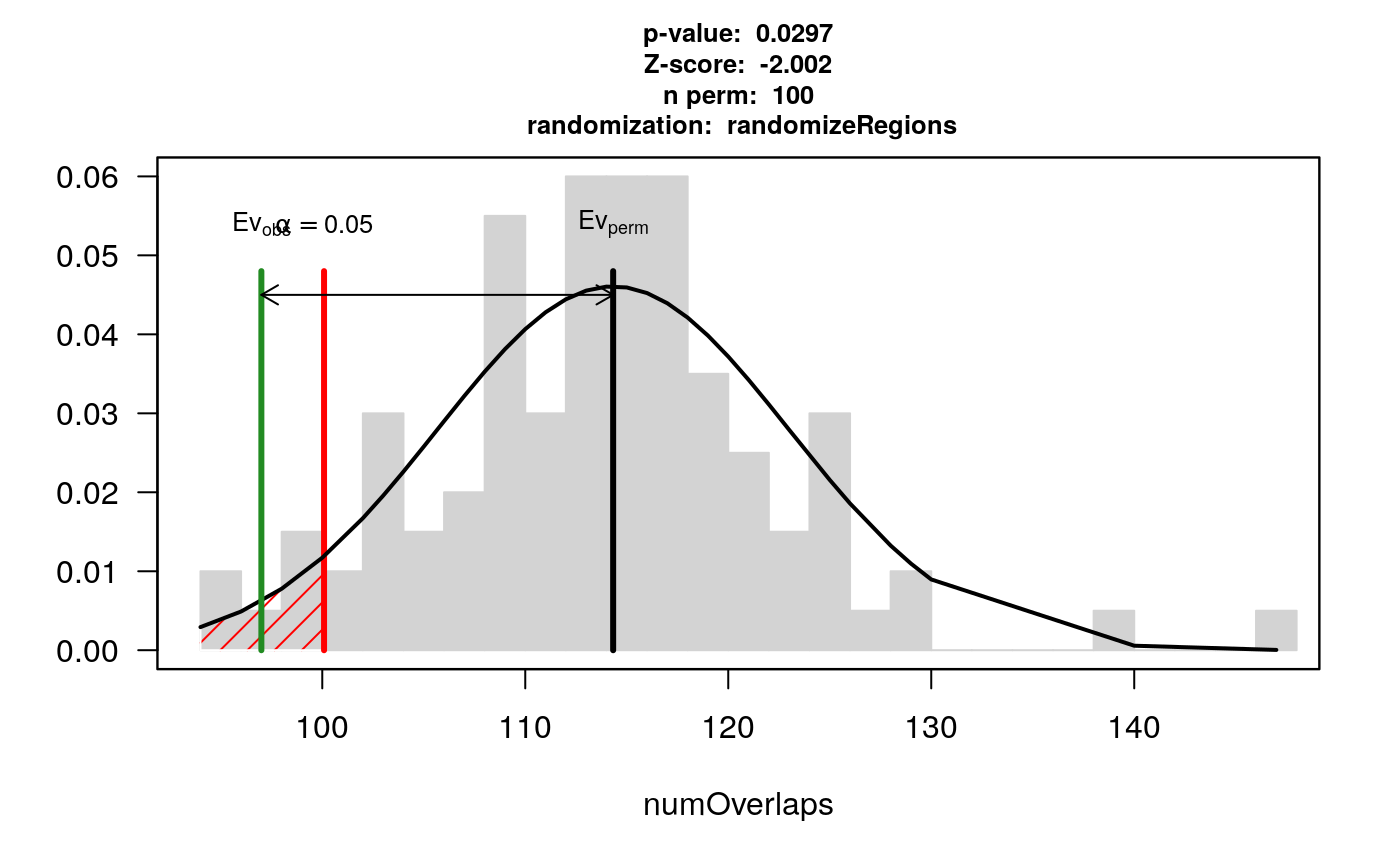
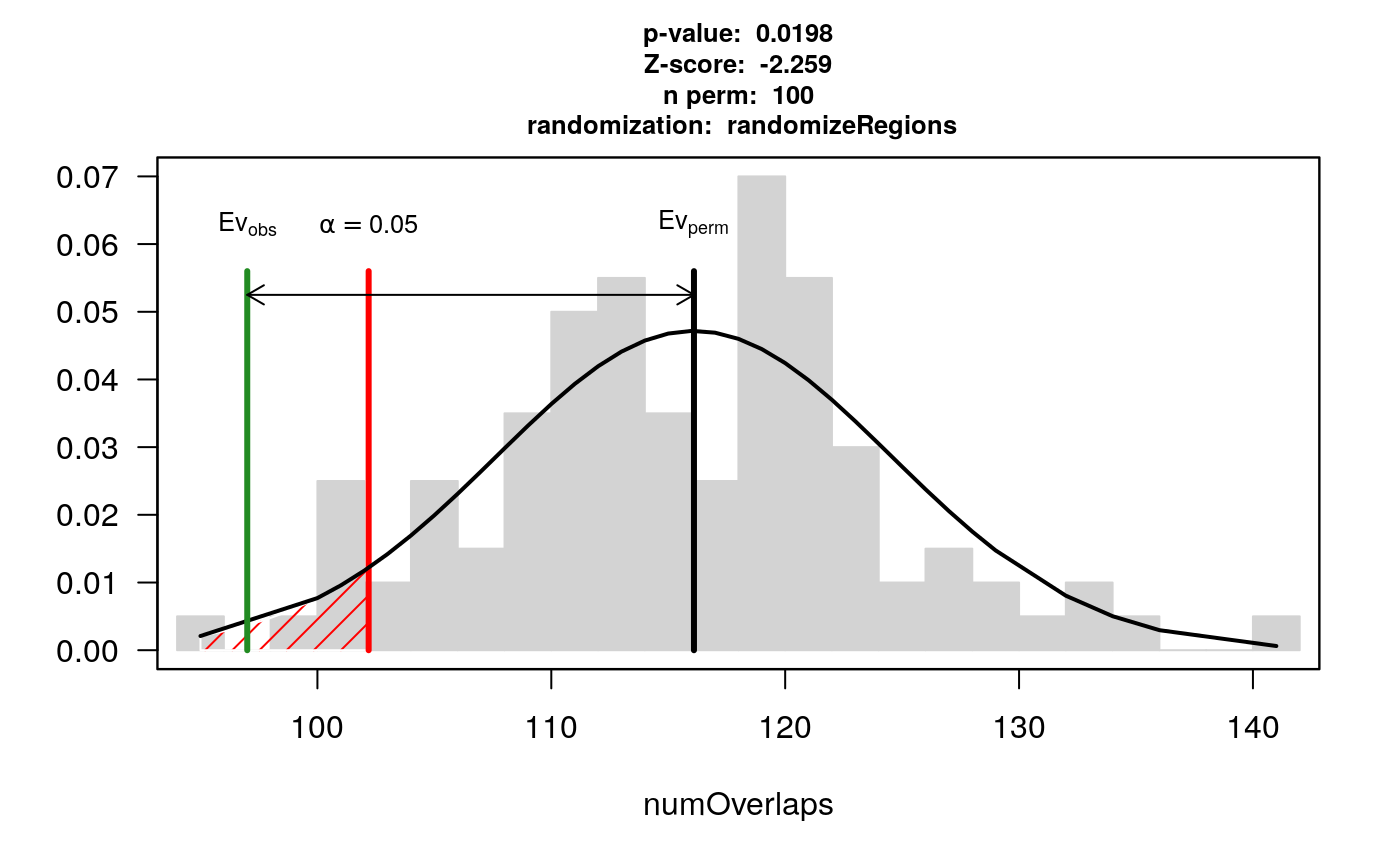
Deploying to gh-pages from  @ 527996aec57179fef9a1bed9976afaef2c1ede6e 🚀

diff --git a/articles/Geistlinger_CNVWorkshop.html b/articles/Geistlinger_CNVWorkshop.html
@@ -563,17 +563,17 @@ RaggedExperiment object schematic. Rows and columns represent genomic ranges and
 <pre><code>## DataFrame with 711 rows and 2 columns
 ##             weight       fcr
 ##          &lt;numeric&gt; &lt;numeric&gt;
-## NE001357   1078.38      7.38
-## NE001358   1103.36      7.35
-## NE001359   1110.40      7.44
-## NE001360   1065.99      7.38
-## NE001361    950.32      4.35
+## NE001357   1122.02      5.08
+## NE001358   1051.97      5.62
+## NE001359   1134.84      6.24
+## NE001360   1179.95      7.42
+## NE001361    938.79      8.06
 ## ...            ...       ...
-## NE003962   1119.74      7.30
-## NE003963   1063.77      9.00
-## NE003966   1070.38      5.59
-## NE003967   1191.68      8.98
-## NE003968    991.56      6.35</code></pre>
+## NE003962   1151.88      5.84
+## NE003963   1054.44      3.77
+## NE003966   1148.11      7.60
+## NE003967   1152.94      7.50
+## NE003968   1167.31      5.62</code></pre>
 </div>
 </div>
 <div id="summarizing-individual-cnv-calls-across-a-population" class="section level3">
@@ -660,7 +660,7 @@ RaggedExperiment object schematic. Rows and columns represent genomic ranges and
 <p>To obtain the location of protein-coding genes, we query available <em>Bos taurus</em> annotation from Ensembl</p>
 <div class="sourceCode" id="cb59"><html><body><pre class="r"><span class="fu"><a href="https://rdrr.io/r/base/library.html">library</a></span>(<span class="no">AnnotationHub</span>)
 <span class="no">ah</span> <span class="kw">&lt;-</span> <span class="kw pkg">AnnotationHub</span><span class="kw ns">::</span><span class="fu"><a href="https://rdrr.io/pkg/AnnotationHub/man/AnnotationHub-class.html">AnnotationHub</a></span>()</pre></body></html></div>
-<pre><code>## using temporary cache /tmp/Rtmp3o4EAZ/BiocFileCache</code></pre>
+<pre><code>## using temporary cache /tmp/Rtmpyq1QlS/BiocFileCache</code></pre>
 <pre><code>## snapshotDate(): 2020-07-20</code></pre>
 <div class="sourceCode" id="cb62"><html><body><pre class="r"><span class="no">ahDb</span> <span class="kw">&lt;-</span> <span class="kw pkg">AnnotationHub</span><span class="kw ns">::</span><span class="fu"><a href="https://rdrr.io/pkg/AnnotationHub/man/AnnotationHub-class.html">query</a></span>(<span class="no">ah</span>, <span class="kw">pattern</span> <span class="kw">=</span> <span class="fu"><a href="https://rdrr.io/r/base/c.html">c</a></span>(<span class="st">"Bos taurus"</span>, <span class="st">"EnsDb"</span>))
 <span class="no">ahDb</span></pre></body></html></div>
@@ -798,8 +798,8 @@ RaggedExperiment object schematic. Rows and columns represent genomic ranges and
     <span class="kw">genome</span><span class="kw">=</span><span class="st">"bosTau6"</span>, <span class="kw">mask</span><span class="kw">=</span><span class="fl">NA</span>, <span class="kw">per.chromosome</span><span class="kw">=</span><span class="fl">TRUE</span>, <span class="kw">count.once</span><span class="kw">=</span><span class="fl">TRUE</span>))
 <span class="no">res</span></pre></body></html></div>
 <pre><code>## $numOverlaps
-## P-value: 0.0297029702970297
-## Z-score: -2.0015
+## P-value: 0.0198019801980198
+## Z-score: -2.2587
 ## Number of iterations: 100
 ## Alternative: less
 ## Evaluation of the original region set: 97
@@ -810,8 +810,8 @@ RaggedExperiment object schematic. Rows and columns represent genomic ranges and
 ## [1] "permTestResultsList"</code></pre>
 <div class="sourceCode" id="cb77"><html><body><pre class="r"><span class="fu"><a href="https://rdrr.io/r/base/summary.html">summary</a></span>(<span class="no">res</span><span class="kw">[[</span><span class="fl">1</span>]]$<span class="no">permuted</span>)</pre></body></html></div>
 <pre><code>##    Min. 1st Qu.  Median    Mean 3rd Qu.    Max. 
-##    94.0   109.0   114.5   114.3   119.0   147.0</code></pre>
-<p>The resulting permutation <em>p</em>-value indicates a significant depletion. Out of the 303 CNV regions, 97 overlap with at least one gene. In contrast, when repeatedly drawing random regions matching the CNV regions in size and chromosomal distribution, the mean number of overlapping regions across permutations was 114.3 <span class="math inline">\(\pm\)</span> 8.7.</p>
+##    95.0   111.0   116.0   116.1   121.0   141.0</code></pre>
+<p>The resulting permutation <em>p</em>-value indicates a significant depletion. Out of the 303 CNV regions, 97 overlap with at least one gene. In contrast, when repeatedly drawing random regions matching the CNV regions in size and chromosomal distribution, the mean number of overlapping regions across permutations was 116.1 <span class="math inline">\(\pm\)</span> 8.5.</p>
 <p>This finding is consistent with our observations across the whole genome (<a href="https://doi.org/10.1371/journal.pone.0157711">da Silva et al., 2016</a>) and findings from the 1000 Genomes Poject (<a href="https://www.nature.com/articles/nature15394">Sudmant et al., 2015</a>).</p>
 <div class="sourceCode" id="cb79"><html><body><pre class="r"><span class="fu"><a href="https://rdrr.io/r/base/plot.html">plot</a></span>(<span class="no">res</span>)</pre></body></html></div>
 <p><img src="Geistlinger_CNVWorkshop_files/figure-html/vizPermTest-1.png" width="100%"></p>
